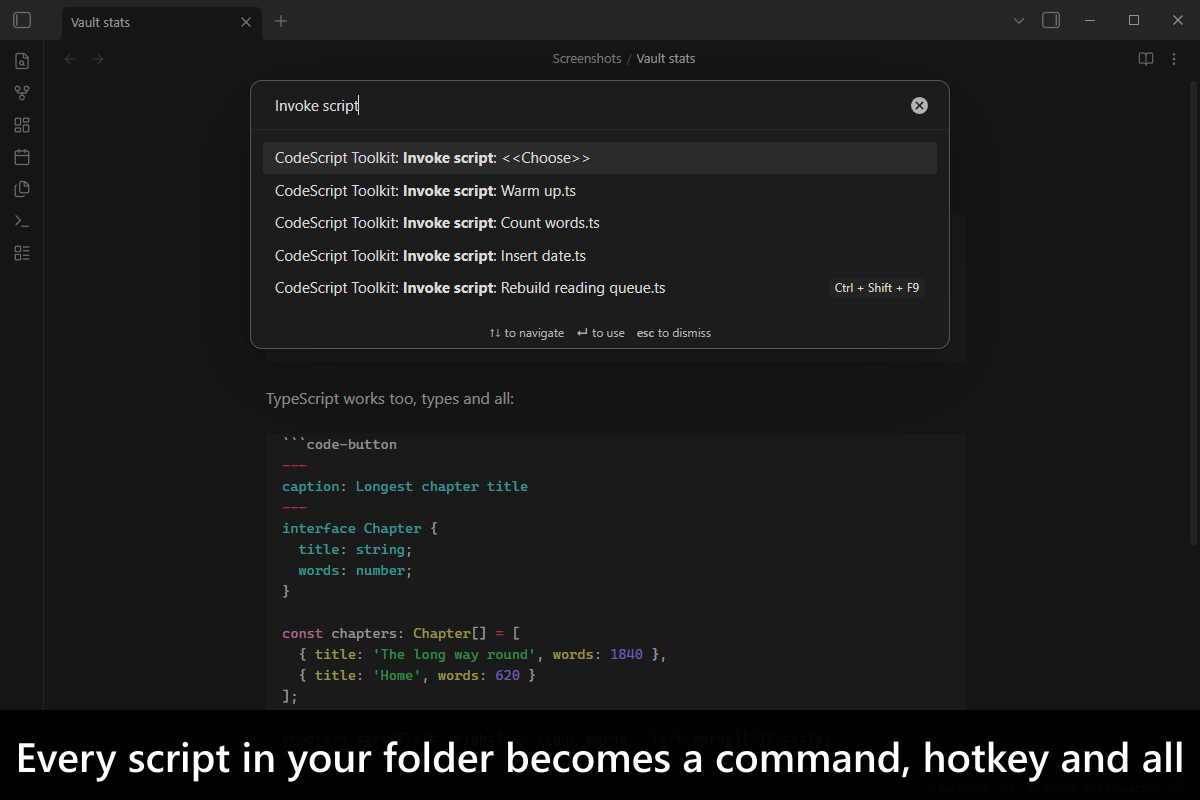
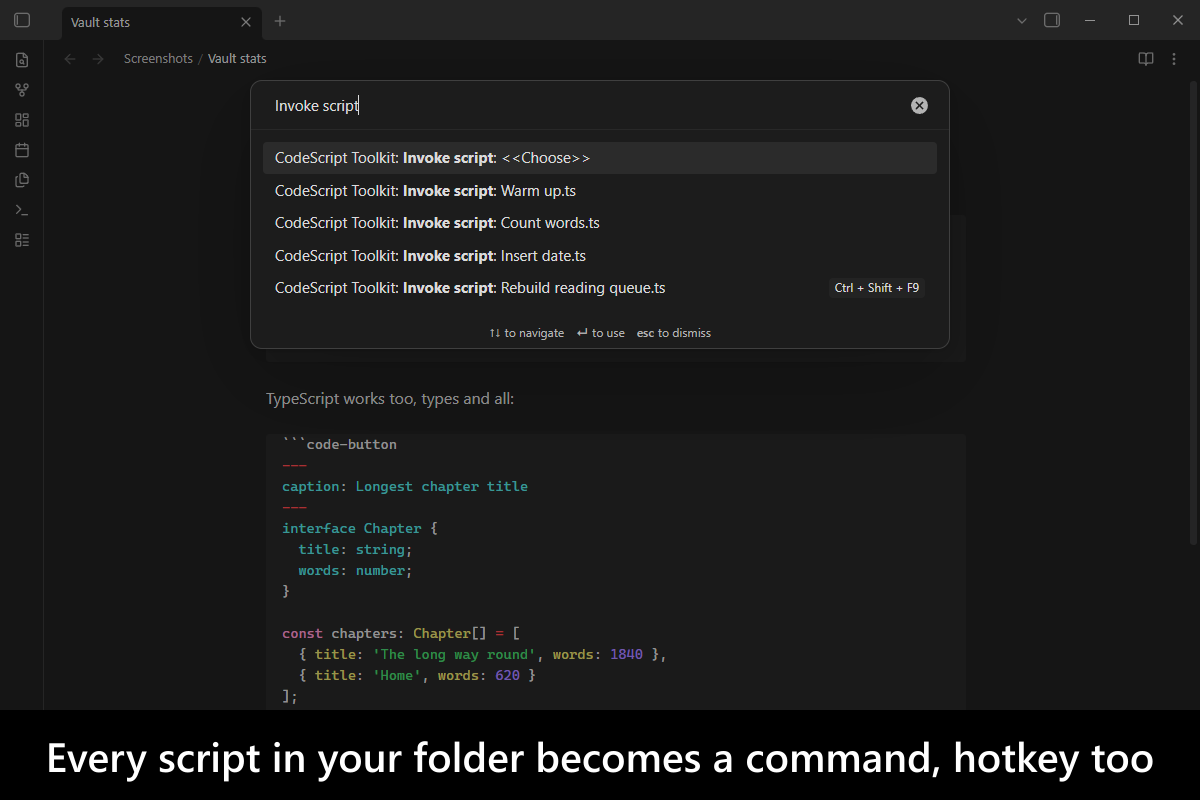
docs(screenshots): shorten desktop frame 4 caption so it fits the frame
The caption rendered 1164 px against the 1104 px a 1200 px frame allows, so
labelScreenshot refused it and the frame could not be re-shot; the published
frame had been clipped at both ends. The new wording keeps the mobile frame
caption as its prefix.

diff --git a/src/screenshots.desktop-capture.integration.test.ts b/src/screenshots.desktop-capture.integration.test.ts
@@ -189,7 +189,7 @@ describe('desktop store screenshots', () => {
     const commandNames = registeredNames.join('\n');
     expect(commandNames).toContain('Invoke script: Insert date.ts');
     expect(commandNames).toContain('Invoke script: Rebuild reading queue.ts');
-    await shoot(4, 'Every script in your folder becomes a command, hotkey and all');
+    await shoot(4, 'Every script in your folder becomes a command, hotkey too');
   });
 
   it('5 - a note importing a module from the vault', async () => {
